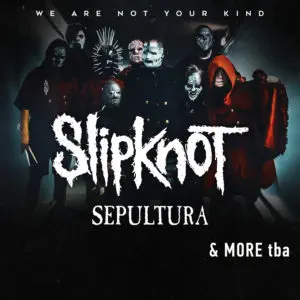
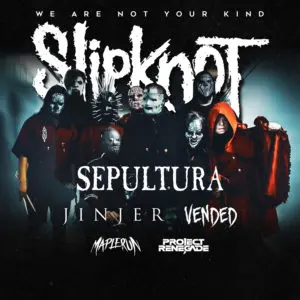
Updated data for 10th lineup.

diff --git a/data/data.js b/data/data.js
@@ -475,6 +475,34 @@ export const lineups = [
 					alt: "thumbnail",
 				},
 			},
+			{
+				title: "Jinjer",
+				img: {
+					src: "/bands/jinjer.jpg",
+					alt: "thumbnail",
+				},
+			},
+			{
+				title: "Maplerun",
+				img: {
+					src: "/bands/maplerun.jpg",
+					alt: "thumbnail",
+				},
+			},
+			{
+				title: "Project Renegade",
+				img: {
+					src: "/bands/renegade.jpg",
+					alt: "thumbnail",
+				},
+			},
+			{
+				title: "Vended",
+				img: {
+					src: "/bands/vended.jpg",
+					alt: "thumbnail",
+				},
+			},
 		],
 	},
 ];

diff --git a/data/en/data.js b/data/en/data.js
@@ -475,6 +475,34 @@ export const lineups = [
 					alt: "thumbnail",
 				},
 			},
+			{
+				title: "Jinjer",
+				img: {
+					src: "/bands/jinjer.jpg",
+					alt: "thumbnail",
+				},
+			},
+			{
+				title: "Maplerun",
+				img: {
+					src: "/bands/maplerun.jpg",
+					alt: "thumbnail",
+				},
+			},
+			{
+				title: "Project Renegade",
+				img: {
+					src: "/bands/renegade.jpg",
+					alt: "thumbnail",
+				},
+			},
+			{
+				title: "Vended",
+				img: {
+					src: "/bands/vended.jpg",
+					alt: "thumbnail",
+				},
+			},
 		],
 	},
 ];

diff --git a/pages/en/release-2022/index.js b/pages/en/release-2022/index.js
@@ -12,7 +12,7 @@ import styles from "@/styles/Home.module.css";
 
 import { lineups, transportLinks, catalogues } from "@/data/en/data";
 
-let counter = 8;
+let counter = 9;
 
 const Home = () => {
 	return (

diff --git a/pages/release-2022/index.js b/pages/release-2022/index.js
@@ -12,7 +12,7 @@ import styles from "@/styles/Home.module.css";
 
 import { lineups, transportLinks, catalogues } from "@/data/data";
 
-let counter = 8;
+let counter = 9;
 
 const Home = () => {
 	return (
